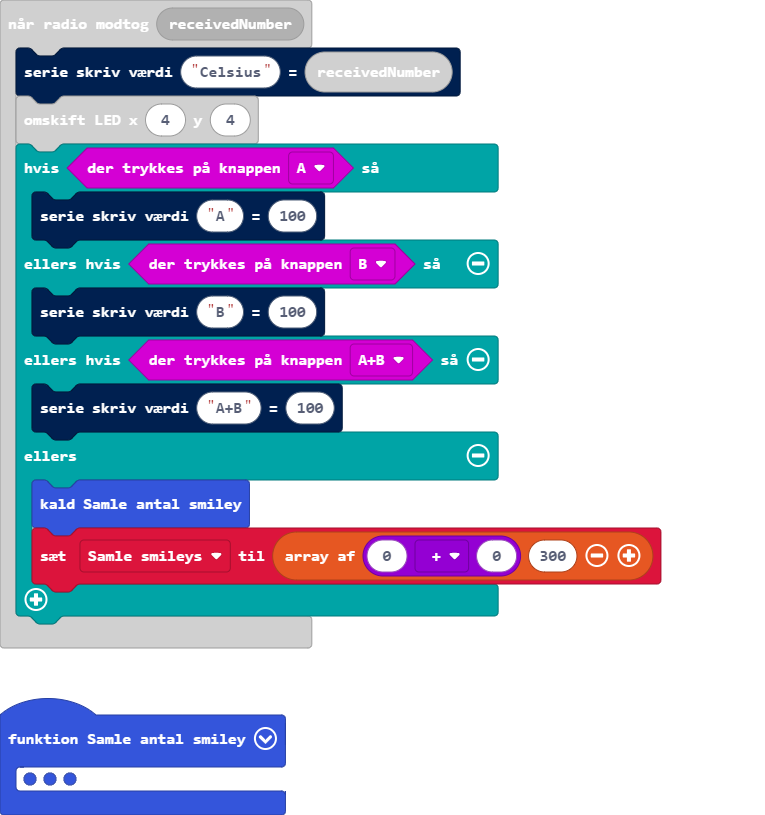
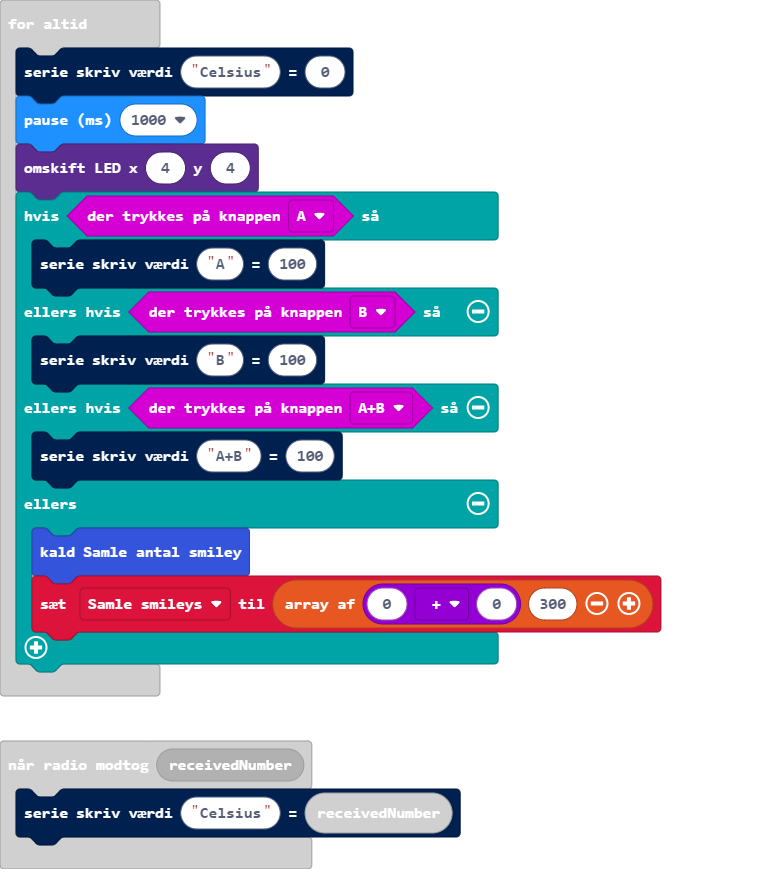
Opdater main.blocks, main.ts

diff --git a/main.ts b/main.ts
@@ -1,5 +1,15 @@
 radio.onReceivedNumber(function (receivedNumber) {
     serial.writeValue("Celsius", receivedNumber)
+})
+function Samle_antal_smiley () {
+	
+}
+let Samle_smileys: number[] = []
+basic.showString("Reciever")
+radio.setGroup(55)
+basic.forever(function () {
+    serial.writeValue("Celsius", 0)
+    basic.pause(1000)
     led.toggle(4, 4)
     if (input.buttonIsPressed(Button.A)) {
         serial.writeValue("A", 100)
@@ -11,13 +21,4 @@ radio.onReceivedNumber(function (receivedNumber) {
         Samle_antal_smiley()
         Samle_smileys = [0 + 0, 300]
     }
-})
-function Samle_antal_smiley () {
-	
-}
-let Samle_smileys: number[] = []
-basic.showString("Reciever")
-radio.setGroup(55)
-basic.forever(function () {
-	
 })
